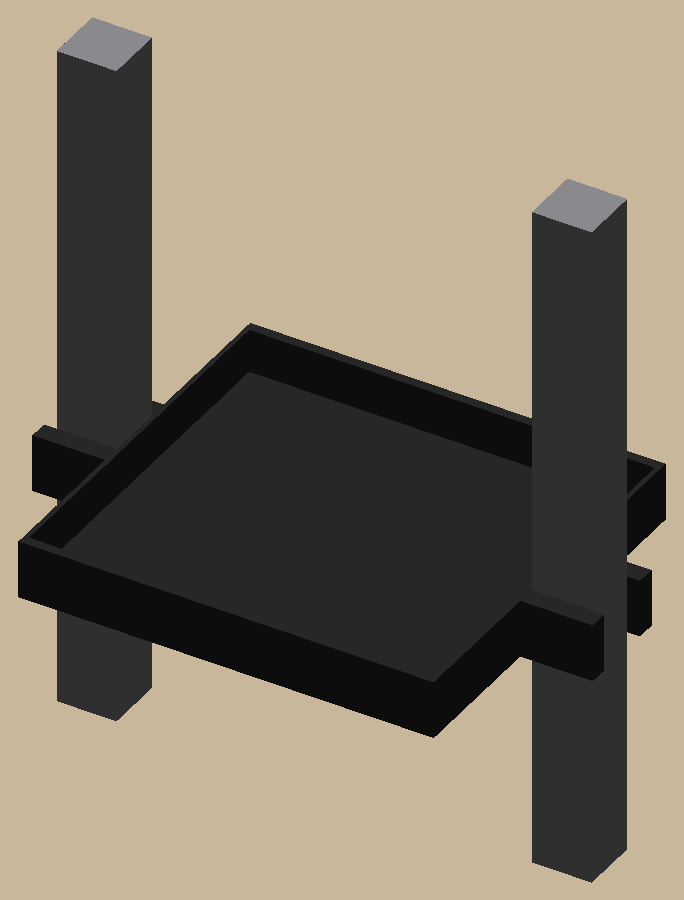
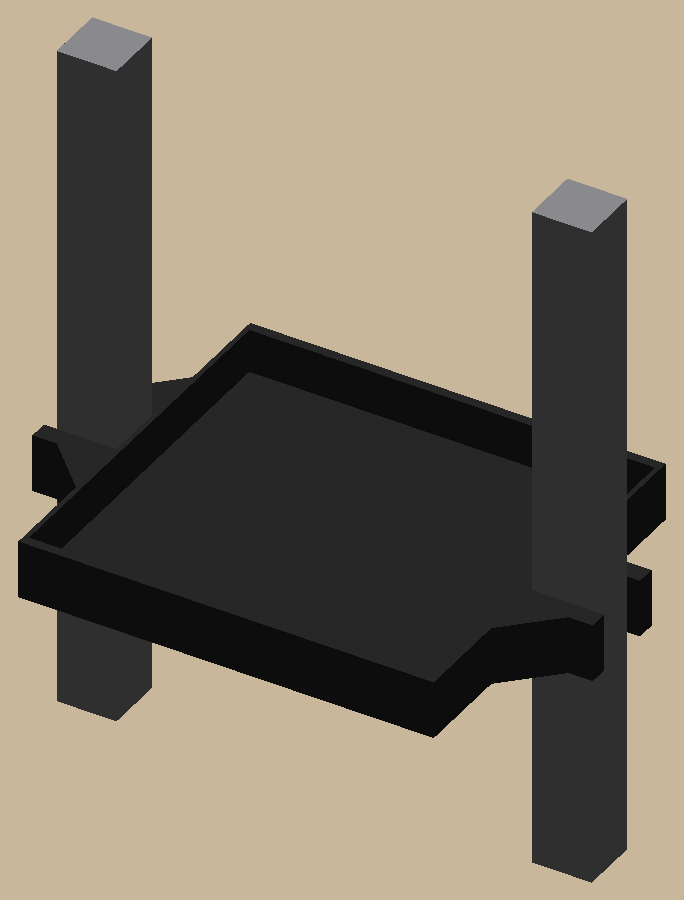
Speaker shelf: triangle braces outside each U prong so the U's can't spread

Changed region(s): [[0.7061, 0.6533, 0.8289, 0.7778], [0.2149, 0.4044, 0.2763, 0.4667], [0.0921, 0.4978, 0.1535, 0.56]]

diff --git a/examples/speaker-shelf/speaker_shelf/parts.py b/examples/speaker-shelf/speaker_shelf/parts.py
@@ -1,7 +1,7 @@
 """Parts in PRINT orientation: flat on Z = 0."""
 from build123d import Align, Part, Plane, Pos, Sketch, Text, extrude, mirror
 
-from cadkit.shapes import rect
+from cadkit.shapes import poly, rect
 from speaker_shelf.params import P, Params
 
 
@@ -46,6 +46,7 @@ def gap_gauge(p: Params = P) -> Part:
 
 # The shelf, in the rail frame: rails centered on y = 0, their inner faces ±rail_gap / 2; the speaker centered.
 # A rectangular tray exactly rail_gap wide, with a U on each side opening outward: the tray's side is the U's bottom.
+# Triangle braces outside each prong tie it to the tray side, so the U can't spread.
 
 
 def shelf_body(p: Params = P) -> Part:
@@ -53,7 +54,10 @@ def shelf_body(p: Params = P) -> Part:
     px, py = p.speaker_w / 2 + p.speaker_clear, p.speaker_d / 2 + p.speaker_clear
     ox, oy = p.rail_gap / 2, py + p.end_wall
     r, tip = p.rail / 2, p.rail_gap / 2 + p.rail_deep + p.prong_reach
-    prongs = [rect(ox - 1, tip, r, r + p.prong_t), rect(ox - 1, tip, -r - p.prong_t, -r)]
+    y0 = r + p.prong_t  # the back prong's outer face
+    brace = poly((ox - 1, y0 - 1), (ox + p.brace, y0 - 1), (ox + p.brace, y0), (ox, y0 + p.brace),
+                 (ox - 1, y0 + p.brace))  # triangle between the prong and the tray side, overlapping both
+    prongs = [rect(ox - 1, tip, r, y0), rect(ox - 1, tip, -y0, -r), brace, mirror(brace, Plane.XZ)]
     prongs += [mirror(s, Plane.YZ) for s in prongs]
     tray = rect(-ox, ox, -oy, oy)
     out = (extrude(Sketch() + [tray], p.floor_t) + extrude(Sketch() + [tray] - [rect(-px, px, -py, py)], p.wall_h)

diff --git a/examples/speaker-shelf/tests/test_shelf.py b/examples/speaker-shelf/tests/test_shelf.py
@@ -1,6 +1,6 @@
 """The shelf: print rules, the U's, the speaker fit, the rails in the U's. Expectations from params."""
 import pytest
-from build123d import Align, Box, Pos
+from build123d import Align, Box, Plane, Pos
 
 from cadkit.checks import downward_faces, off_layer_z, open_edges, printable_problems
 from cadkit.clash import find_clashes
@@ -86,3 +86,23 @@ def test_pocket_fits_the_speaker_with_clearance(body):
 def test_speaker_centered_on_the_rails():
     c = speaker_box(P).bounding_box().center()
     assert (c.X, c.Y) == pytest.approx((0, 0), abs=1e-6)
+
+
+@pytest.mark.parametrize("sx", [1, -1])
+@pytest.mark.parametrize("sy", [1, -1])
+def test_each_prong_is_braced_to_the_tray(body, sx, sy):
+    """Solid in the corner outside each prong (between it and the tray side), most of the way along both legs."""
+    x0, y0 = P.rail_gap / 2, P.rail / 2 + P.prong_t
+    inside = _box(x0 + 0.5, x0 + 1.5, y0 + 0.5, y0 + P.brace - 2.5, MID, MID + 0.1)  # along the tray side
+    along = _box(x0 + 0.5, x0 + P.brace - 2.5, y0 + 0.5, y0 + 1.5, MID, MID + 0.1)  # along the prong
+    for probe in (inside, along):
+        probe = Pos(0, 0, 0) * probe
+        if sx < 0:
+            probe = probe.mirror(Plane.YZ)
+        if sy < 0:
+            probe = probe.mirror(Plane.XZ)
+        assert (body & probe).volume == pytest.approx(probe.volume, rel=1e-6)
+
+
+def test_braces_leave_the_prong_tips_free():
+    assert P.brace < P.rail_deep + P.prong_reach

diff --git a/examples/speaker-shelf/speaker_shelf/params.py b/examples/speaker-shelf/speaker_shelf/params.py
@@ -21,6 +21,7 @@ class Params:
     wall_h: float = 12.0  # walls and U's, floor included
     prong_t: float = 4.0  # each arm of a U, front and back of the rail
     prong_reach: float = 2.6  # past the rail's outer face
+    brace: float = 10.0  # triangle braces outside each prong: legs along the prong and along the tray side
 
     # Rail fork: push each slot onto a rail; the snug one is the rail's real size.
     fork_slots: tuple = (12.4, 12.6, 12.8, 13.0, 13.2, 13.4, 13.6, 13.8)

diff --git a/examples/speaker-shelf/docs/specs/2026-11-07-speaker-shelf.md b/examples/speaker-shelf/docs/specs/2026-11-07-speaker-shelf.md
@@ -27,3 +27,5 @@
   diagonal and twisted into place; the rails have lots of play. So no arms or hooks: a tray exactly rail_gap (86)
   wide, its sides the U bottoms, prongs 4 mm thick front and back of each rail (12.3 apart), reaching 2.6 past the
   rail, all 12 mm tall. Side walls are 1 mm (gap minus speaker and clearance). Speaker centered both ways.
+- 2026-11-07: triangle braces (10 mm legs, full height) outside each prong, tying it to the tray side so the U's can't
+  spread; the last 5 mm of each prong stays free.
